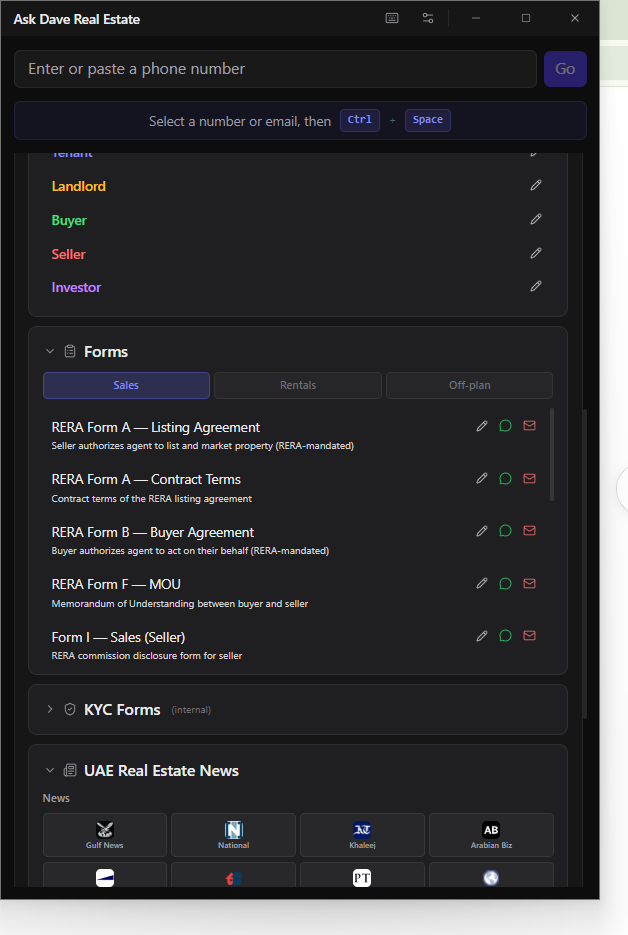
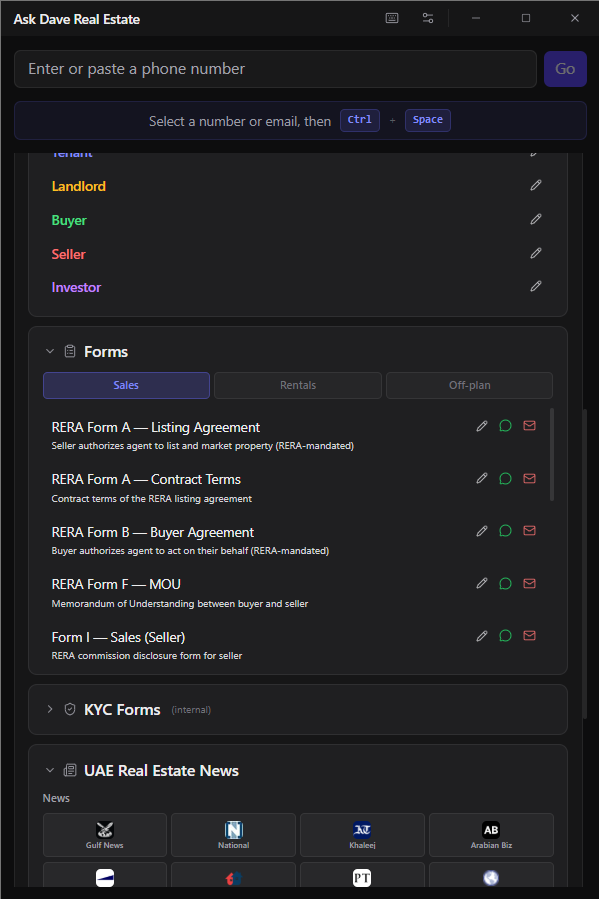
Crop screenshots, fix SmartScreen images, remove Mac references, fix download links
- Crop app-only screenshots to remove desktop background (news, forms, templates, expanded-contact, email-detect)
- Replace broken SmartScreen step 1 (was 404 page) with actual "More info" dialog
- Crop both SmartScreen images to just the blue dialog box
- Fix hero/grid images: object-fit cover for consistent sizing
- Fix download link filename in landing page (had spaces, caused 404)
- Remove all macOS references from landing page (Windows-only product)

diff --git a/landing/index.html b/landing/index.html
@@ -591,13 +591,13 @@
 
     <div class="hero-visual" style="display: flex; gap: 24px; justify-content: center; align-items: flex-start; flex-wrap: wrap; margin-top: 48px;">
       <div style="width: 220px; height: 340px; overflow: hidden; border-radius: 12px; box-shadow: 0 8px 32px rgba(0,0,0,0.18); background: #111111;">
-        <img src="screenshots/compact-mode.png" alt="Compact mode — highlight a number, dial or WhatsApp instantly" style="width: 100%; height: 100%; object-fit: contain;" class="screenshot-thumb">
+        <img src="screenshots/compact-mode.png" alt="Compact mode — highlight a number, dial or WhatsApp instantly" style="width: 100%; height: 100%; object-fit: cover; object-position: top center;" class="screenshot-thumb">
       </div>
       <div style="width: 220px; height: 340px; overflow: hidden; border-radius: 12px; box-shadow: 0 8px 32px rgba(0,0,0,0.18); background: #111111;">
-        <img src="screenshots/expanded-contact.png" alt="Expanded contact card with actions" style="width: 100%; height: 100%; object-fit: contain;" class="screenshot-thumb">
+        <img src="screenshots/expanded-contact.png" alt="Expanded contact card with actions" style="width: 100%; height: 100%; object-fit: cover; object-position: top center;" class="screenshot-thumb">
       </div>
       <div style="width: 220px; height: 340px; overflow: hidden; border-radius: 12px; box-shadow: 0 8px 32px rgba(0,0,0,0.18); background: #111111;">
-        <img src="screenshots/templates.png" alt="WhatsApp and Gmail templates" style="width: 100%; height: 100%; object-fit: contain;" class="screenshot-thumb">
+        <img src="screenshots/templates.png" alt="WhatsApp and Gmail templates" style="width: 100%; height: 100%; object-fit: cover; object-position: top center;" class="screenshot-thumb">
       </div>
     </div>
   </section>
@@ -682,25 +682,25 @@
       <div class="screenshot-grid" style="display: grid; grid-template-columns: repeat(3, 1fr); gap: 24px; margin-top: 40px;">
         <div style="text-align: center;">
           <div style="height: 320px; overflow: hidden; border-radius: 10px; box-shadow: 0 4px 20px rgba(0,0,0,0.12); background: #111111;">
-            <img src="screenshots/templates.png" alt="WhatsApp and Gmail templates" style="width: 100%; height: 100%; object-fit: contain;" class="screenshot-thumb">
+            <img src="screenshots/templates.png" alt="WhatsApp and Gmail templates" style="width: 100%; height: 100%; object-fit: cover; object-position: top center;" class="screenshot-thumb">
           </div>
           <p style="margin-top: 12px; font-size: 14px; color: var(--text-light);">WhatsApp, Gmail &amp; OneNote templates</p>
         </div>
         <div style="text-align: center;">
           <div style="height: 320px; overflow: hidden; border-radius: 10px; box-shadow: 0 4px 20px rgba(0,0,0,0.12); background: #111111;">
-            <img src="screenshots/forms.png" alt="RERA forms with send buttons" style="width: 100%; height: 100%; object-fit: contain;" class="screenshot-thumb">
+            <img src="screenshots/forms.png" alt="RERA forms with send buttons" style="width: 100%; height: 100%; object-fit: cover; object-position: top center;" class="screenshot-thumb">
           </div>
           <p style="margin-top: 12px; font-size: 14px; color: var(--text-light);">RERA forms — send via WhatsApp or Gmail</p>
         </div>
         <div style="text-align: center;">
           <div style="height: 320px; overflow: hidden; border-radius: 10px; box-shadow: 0 4px 20px rgba(0,0,0,0.12); background: #111111;">
-            <img src="screenshots/news.png" alt="UAE real estate news feed" style="width: 100%; height: 100%; object-fit: contain;" class="screenshot-thumb">
+            <img src="screenshots/news.png" alt="UAE real estate news feed" style="width: 100%; height: 100%; object-fit: cover; object-position: top center;" class="screenshot-thumb">
           </div>
           <p style="margin-top: 12px; font-size: 14px; color: var(--text-light);">UAE real estate news from 12 sources</p>
         </div>
         <div style="text-align: center;">
           <div style="height: 320px; overflow: hidden; border-radius: 10px; box-shadow: 0 4px 20px rgba(0,0,0,0.12); background: #111111;">
-            <img src="screenshots/email-detect.png" alt="Email detection from clipboard" style="width: 100%; height: 100%; object-fit: contain;" class="screenshot-thumb">
+            <img src="screenshots/email-detect.png" alt="Email detection from clipboard" style="width: 100%; height: 100%; object-fit: cover; object-position: top center;" class="screenshot-thumb">
           </div>
           <p style="margin-top: 12px; font-size: 14px; color: var(--text-light);">Auto-detects emails from highlighted text</p>
         </div>
@@ -745,14 +745,7 @@
                   <div class="platform-label">Windows</div>
                   <div class="platform-sub">Windows 10 or later</div>
                 </div>
-                <a href="https://github.com/Dave-Buckley/askdave-real-estate-tools/releases/latest/download/Ask Dave Real Estate Tools-Setup.exe" class="btn-download-sm">Download .exe</a>
-              </div>
-              <div class="download-box">
-                <div>
-                  <div class="platform-label">macOS</div>
-                  <div class="platform-sub">macOS 12 or later</div>
-                </div>
-                <a href="https://github.com/Dave-Buckley/askdave-real-estate-tools/releases/latest/download/Ask Dave Real Estate Tools.dmg" class="btn-download-sm">Download .dmg</a>
+                <a href="https://github.com/Dave-Buckley/askdave-real-estate-tools/releases/latest/download/AskDave-RealEstateTools-Setup.exe" class="btn-download-sm">Download .exe</a>
               </div>
             </div>
 
@@ -775,8 +768,6 @@
             <div class="phone-tabs">
               <button class="phone-tab active" onclick="showPhonePanel('android-win')">Android + Windows</button>
               <button class="phone-tab" onclick="showPhonePanel('iphone-win')">iPhone + Windows <span style="font-size:0.7em;opacity:0.7;">(In Dev)</span></button>
-              <button class="phone-tab" onclick="showPhonePanel('iphone-mac')">iPhone + Mac <span style="font-size:0.7em;opacity:0.7;">(In Dev)</span></button>
-              <button class="phone-tab" onclick="showPhonePanel('android-mac')">Android + Mac <span style="font-size:0.7em;opacity:0.7;">(In Dev)</span></button>
             </div>
 
             <!-- Android + Windows -->
@@ -818,42 +809,6 @@
               </div>
             </div>
 
-            <!-- iPhone + Mac -->
-            <div class="phone-panel" id="panel-iphone-mac">
-              <div class="setup-card-inline">
-                <h4>iPhone + Mac <span style="background:#EDE9FE;color:#5B21B6;font-size:0.7em;padding:0.15em 0.5em;border-radius:4px;font-weight:600;vertical-align:middle;">IN DEVELOPMENT</span></h4>
-                <div style="background:#FEF3C7;border:1px solid #F59E0B;border-radius:6px;padding:0.75rem 1rem;margin-bottom:1rem;font-size:0.82rem;color:#92400E;line-height:1.6;font-weight:300;">
-                  <strong style="font-weight:600;color:#78350F;">Note:</strong> This platform combination is in active development. Core features work, but you may encounter issues. If you run into any issues, please let us know via <a href="https://github.com/Dave-Buckley/askdave-real-estate-tools/issues" style="color:#92400E;font-weight:500;">GitHub</a> or <a href="mailto:dave.john.buckley@gmail.com" style="color:#92400E;font-weight:500;">email</a> and we'll work to resolve them.
-                </div>
-                <div class="combo">Built-in to Apple. No extra apps needed</div>
-                <ol class="setup-steps-list">
-                  <li>Make sure your iPhone and Mac are signed into the <strong>same Apple ID</strong></li>
-                  <li>Make sure both devices are on the <strong>same Wi-Fi network</strong></li>
-                  <li>On your iPhone, go to <strong>Settings &rarr; Phone &rarr; Calls on Other Devices</strong></li>
-                  <li>Turn on <strong>"Allow Calls on Other Devices"</strong></li>
-                  <li>In the list below, toggle on <strong>your Mac</strong></li>
-                </ol>
-                <div class="setup-note"><strong>That's it.</strong> When you click "Dial" in Ask Dave Dubai Real Estate, your Mac rings and connects through your iPhone automatically. No extra apps, no Bluetooth needed.</div>
-              </div>
-            </div>
-
-            <!-- Android + Mac -->
-            <div class="phone-panel" id="panel-android-mac">
-              <div class="setup-card-inline">
-                <h4>Android + Mac <span style="background:#EDE9FE;color:#5B21B6;font-size:0.7em;padding:0.15em 0.5em;border-radius:4px;font-weight:600;vertical-align:middle;">IN DEVELOPMENT</span></h4>
-                <div style="background:#FEF3C7;border:1px solid #F59E0B;border-radius:6px;padding:0.75rem 1rem;margin-bottom:1rem;font-size:0.82rem;color:#92400E;line-height:1.6;font-weight:300;">
-                  <strong style="font-weight:600;color:#78350F;">Note:</strong> This platform combination is in active development. Core features work, but you may encounter issues. If you run into any issues, please let us know via <a href="https://github.com/Dave-Buckley/askdave-real-estate-tools/issues" style="color:#92400E;font-weight:500;">GitHub</a> or <a href="mailto:dave.john.buckley@gmail.com" style="color:#92400E;font-weight:500;">email</a> and we'll work to resolve them.
-                </div>
-                <div class="combo">No built-in call handoff, so use WhatsApp instead</div>
-                <ol class="setup-steps-list">
-                  <li>There's no built-in way to make phone calls from a Mac through an Android phone</li>
-                  <li>Install <strong>WhatsApp Desktop</strong> on your Mac from the App Store or whatsapp.com</li>
-                  <li>Open WhatsApp Desktop and <strong>scan the QR code</strong> with your phone's WhatsApp</li>
-                  <li>In Ask Dave Dubai Real Estate settings, set <strong>WhatsApp as your default action</strong></li>
-                </ol>
-                <div class="setup-note"><strong>Tip:</strong> Most agents with this setup use WhatsApp for everything. It works great, and you can call and message directly from your Mac through WhatsApp Desktop.</div>
-              </div>
-            </div>
           </div>
         </div>
 
@@ -869,7 +824,7 @@
 
             <div class="setup-card-inline">
               <ol class="setup-steps-list">
-                <li>Download <strong>WhatsApp Desktop</strong> from the Microsoft Store (Windows) or App Store (Mac)</li>
+                <li>Download <strong>WhatsApp Desktop</strong> from the Microsoft Store</li>
                 <li>Open it and <strong>scan the QR code</strong> with your phone's WhatsApp (Settings &rarr; Linked Devices &rarr; Link a Device)</li>
                 <li>In Ask Dave Dubai Real Estate, open <strong>Settings</strong> and set WhatsApp mode to <strong>"Desktop"</strong></li>
               </ol>
@@ -942,7 +897,7 @@
         </div>
         <div class="faq-item">
           <div class="faq-q">Where does Ask Dave Dubai Real Estate appear after I install it?</div>
-          <div class="faq-a">In your system tray (bottom-right of your taskbar on Windows, or the menu bar on Mac). Look for the Ask Dave Dubai Real Estate icon. Click it to open the panel, right-click for settings.</div>
+          <div class="faq-a">In your system tray (bottom-right of your taskbar). Look for the Ask Dave Dubai Real Estate icon. Click it to open the panel, right-click for settings.</div>
         </div>
         <div class="faq-item">
           <div class="faq-q">Does it work with any CRM?</div>
@@ -1056,7 +1011,7 @@
   <!-- DOWNLOAD -->
   <section class="download-section" id="download">
     <div class="section-eyebrow" style="text-align:center;">Download</div>
-    <div class="section-title" style="text-align:center;">Works on Windows and Mac</div>
+    <div class="section-title" style="text-align:center;">Download for Windows</div>
     <p style="color: var(--text-muted); font-weight: 300; text-align: center; margin-top: 0.5rem;">No admin rights needed. Just install and go.</p>
 
     <div class="platform-cards">
@@ -1064,18 +1019,12 @@
         <div class="platform-icon">&#128187;</div>
         <h3>Windows</h3>
         <p>Windows 10 or later</p>
-        <a href="https://github.com/Dave-Buckley/askdave-real-estate-tools/releases/latest/download/Ask Dave Real Estate Tools-Setup.exe" class="btn-download">Download .exe</a>
-      </div>
-      <div class="platform-card">
-        <div class="platform-icon">&#128421;</div>
-        <h3>macOS <span style="background:#EDE9FE;color:#5B21B6;font-size:0.6em;padding:0.15em 0.5em;border-radius:4px;font-weight:600;vertical-align:middle;">IN DEVELOPMENT</span></h3>
-        <p>macOS 12 or later</p>
-        <a href="https://github.com/Dave-Buckley/askdave-real-estate-tools/releases/latest/download/Ask Dave Real Estate Tools.dmg" class="btn-download">Download .dmg</a>
+        <a href="https://github.com/Dave-Buckley/askdave-real-estate-tools/releases/latest/download/AskDave-RealEstateTools-Setup.exe" class="btn-download">Download .exe</a>
       </div>
     </div>
     <p style="color: var(--text-muted); font-size: 0.8rem; text-align: center; margin-top: 1.5rem; font-weight: 300;">After downloading, follow the <a href="#getting-started" style="color: #333333; text-decoration: none; font-weight: 500;">Getting Started guide</a> to connect your phone.</p>
     <p style="text-align: center; margin-top: 1rem;"><a href="AskDave-Setup-Guide.html" target="_blank" style="color: #333333; font-size: 0.85rem; font-weight: 500; text-decoration: none; border-bottom: 1px solid #333333;">Download Setup Guide (printable)</a></p>
-    <p style="color: var(--text-muted); font-size: 0.78rem; text-align: center; margin-top: 1.25rem; font-weight: 300; max-width: 560px; margin-left: auto; margin-right: auto; line-height: 1.7;">Currently optimized for <strong style="color:var(--heading);font-weight:500;">Android + Windows</strong>. macOS and iPhone support are in active development. If you encounter any issues or have feature requests, please <a href="mailto:dave.john.buckley@gmail.com" style="color: #333333; text-decoration: none; font-weight: 500;">email us</a> or report them on <a href="https://github.com/Dave-Buckley/askdave-real-estate-tools/issues" style="color: #333333; text-decoration: none; font-weight: 500;">GitHub</a>.</p>
+    <p style="color: var(--text-muted); font-size: 0.78rem; text-align: center; margin-top: 1.25rem; font-weight: 300; max-width: 560px; margin-left: auto; margin-right: auto; line-height: 1.7;">Works best with <strong style="color:var(--heading);font-weight:500;">Android + Windows</strong>. iPhone support is in active development. If you encounter any issues or have feature requests, please <a href="mailto:dave.john.buckley@gmail.com" style="color: #333333; text-decoration: none; font-weight: 500;">email us</a> or report them on <a href="https://github.com/Dave-Buckley/askdave-real-estate-tools/issues" style="color: #333333; text-decoration: none; font-weight: 500;">GitHub</a>.</p>
   </section>
 
   <!-- CTA -->

diff --git a/docs/index.html b/docs/index.html
@@ -592,13 +592,13 @@
 
     <div class="hero-visual" style="display: flex; gap: 24px; justify-content: center; align-items: flex-start; flex-wrap: wrap; margin-top: 48px;">
       <div style="width: 220px; height: 340px; overflow: hidden; border-radius: 12px; box-shadow: 0 8px 32px rgba(0,0,0,0.18); background: #111111;">
-        <img src="screenshots/compact-mode.png" alt="Compact mode — highlight a number, dial or WhatsApp instantly" style="width: 100%; height: 100%; object-fit: contain;" class="screenshot-thumb">
+        <img src="screenshots/compact-mode.png" alt="Compact mode — highlight a number, dial or WhatsApp instantly" style="width: 100%; height: 100%; object-fit: cover; object-position: top center;" class="screenshot-thumb">
       </div>
       <div style="width: 220px; height: 340px; overflow: hidden; border-radius: 12px; box-shadow: 0 8px 32px rgba(0,0,0,0.18); background: #111111;">
-        <img src="screenshots/expanded-contact.png" alt="Expanded contact card with actions" style="width: 100%; height: 100%; object-fit: contain;" class="screenshot-thumb">
+        <img src="screenshots/expanded-contact.png" alt="Expanded contact card with actions" style="width: 100%; height: 100%; object-fit: cover; object-position: top center;" class="screenshot-thumb">
       </div>
       <div style="width: 220px; height: 340px; overflow: hidden; border-radius: 12px; box-shadow: 0 8px 32px rgba(0,0,0,0.18); background: #111111;">
-        <img src="screenshots/templates.png" alt="WhatsApp and Gmail templates" style="width: 100%; height: 100%; object-fit: contain;" class="screenshot-thumb">
+        <img src="screenshots/templates.png" alt="WhatsApp and Gmail templates" style="width: 100%; height: 100%; object-fit: cover; object-position: top center;" class="screenshot-thumb">
       </div>
     </div>
   </section>
@@ -683,25 +683,25 @@
       <div class="screenshot-grid" style="display: grid; grid-template-columns: repeat(3, 1fr); gap: 24px; margin-top: 40px;">
         <div style="text-align: center;">
           <div style="height: 320px; overflow: hidden; border-radius: 10px; box-shadow: 0 4px 20px rgba(0,0,0,0.12); background: #111111;">
-            <img src="screenshots/templates.png" alt="WhatsApp and Gmail templates" style="width: 100%; height: 100%; object-fit: contain;" class="screenshot-thumb">
+            <img src="screenshots/templates.png" alt="WhatsApp and Gmail templates" style="width: 100%; height: 100%; object-fit: cover; object-position: top center;" class="screenshot-thumb">
           </div>
           <p style="margin-top: 12px; font-size: 14px; color: var(--text-light);">WhatsApp, Gmail &amp; OneNote templates</p>
         </div>
         <div style="text-align: center;">
           <div style="height: 320px; overflow: hidden; border-radius: 10px; box-shadow: 0 4px 20px rgba(0,0,0,0.12); background: #111111;">
-            <img src="screenshots/forms.png" alt="RERA forms with send buttons" style="width: 100%; height: 100%; object-fit: contain;" class="screenshot-thumb">
+            <img src="screenshots/forms.png" alt="RERA forms with send buttons" style="width: 100%; height: 100%; object-fit: cover; object-position: top center;" class="screenshot-thumb">
           </div>
           <p style="margin-top: 12px; font-size: 14px; color: var(--text-light);">RERA forms — send via WhatsApp or Gmail</p>
         </div>
         <div style="text-align: center;">
           <div style="height: 320px; overflow: hidden; border-radius: 10px; box-shadow: 0 4px 20px rgba(0,0,0,0.12); background: #111111;">
-            <img src="screenshots/news.png" alt="UAE real estate news feed" style="width: 100%; height: 100%; object-fit: contain;" class="screenshot-thumb">
+            <img src="screenshots/news.png" alt="UAE real estate news feed" style="width: 100%; height: 100%; object-fit: cover; object-position: top center;" class="screenshot-thumb">
           </div>
           <p style="margin-top: 12px; font-size: 14px; color: var(--text-light);">UAE real estate news from 12 sources</p>
         </div>
         <div style="text-align: center;">
           <div style="height: 320px; overflow: hidden; border-radius: 10px; box-shadow: 0 4px 20px rgba(0,0,0,0.12); background: #111111;">
-            <img src="screenshots/email-detect.png" alt="Email detection from clipboard" style="width: 100%; height: 100%; object-fit: contain;" class="screenshot-thumb">
+            <img src="screenshots/email-detect.png" alt="Email detection from clipboard" style="width: 100%; height: 100%; object-fit: cover; object-position: top center;" class="screenshot-thumb">
           </div>
           <p style="margin-top: 12px; font-size: 14px; color: var(--text-light);">Auto-detects emails from highlighted text</p>
         </div>
